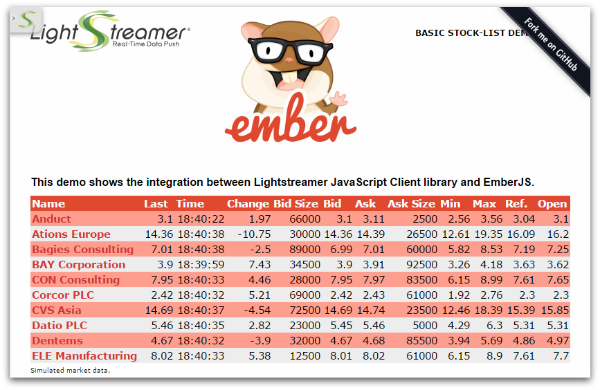
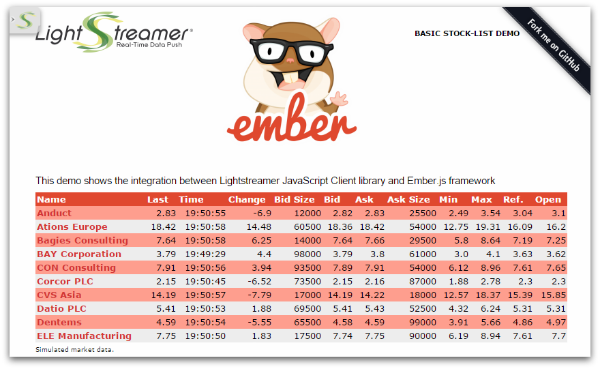
Update the description at the top of the table

diff --git a/src/index.html b/src/index.html
@@ -49,7 +49,7 @@
         <div id="title">BASIC STOCK-LIST DEMO</div>
 	  </div>
 	  
-	  <div id="desc">This demo shows the integration between Lightstreamer JavaScript Client library and EmberJS framework</div>
+	  <div id="desc">This demo shows the integration between Lightstreamer JavaScript Client library and Ember.js framework</div>
 	
       <table cellspacing="0" cellpadding="2" width="780" border="0" >
 	    <thead>
